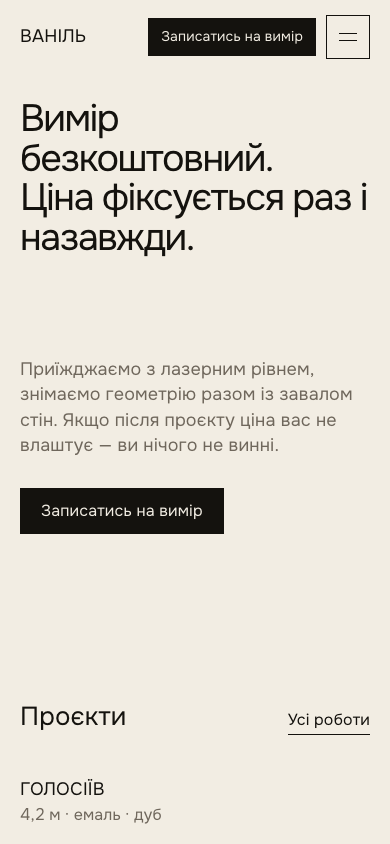
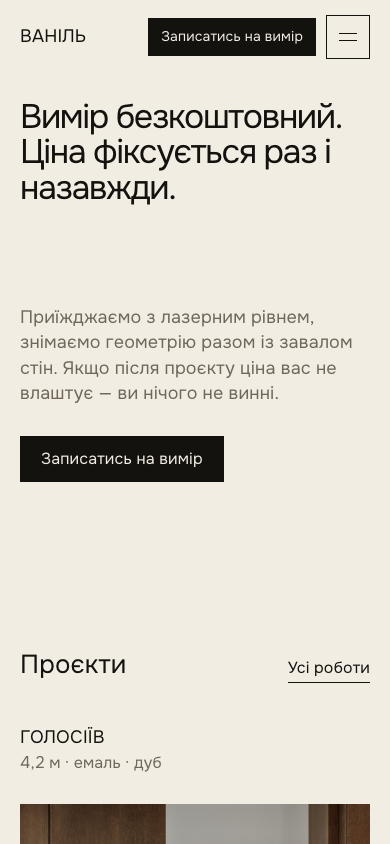
Заявна секція: менший заголовок, смуги серединою кадру й ведені скролом
- заголовок 84 -> 72px, той самий кегль, що в рейці (72px — розмір
  «Built for Institutional Workflows» на референсі)
- смуги перемальовані: заходять зліва внизу, сходинками йдуть управо
  і виходять угору праворуч, повз заголовок і повз абзац
- графіка стала елементом сітки (рядки 2-3), тож починається рівно там,
  де закінчується заголовок, і тримається там за будь-якого кегля
- анімацію веде скрол (--flow у app.js), а не нескінченний keyframes:
  раніше лінії бігли самі, навіть коли секції не видно

Побічно виправлено: .claim не мала явної колонки, через що 100% у дочірніх
рахувався від ширини вмісту (808px), а футер автопотоком ішов у другу
колонку — смуги через це не діставали країв екрана.

diff --git a/assets/style.css b/assets/style.css
@@ -176,7 +176,9 @@ a:focus-visible,button:focus-visible,input:focus-visible,select:focus-visible,.c
   /* середній рядок фіксований: 310px — задана відстань від заголовка до
      абзацу з діями. Тому висота секції рахується з відступів і рядків,
      а не з min-height, інакше зайве місце розтягувало б цю відстань. */
-  display:grid;grid-template-rows:auto 310px auto;
+  /* колонку задаємо явно: без неї 100% у дочірніх елементів рахувався від
+     ширини вмісту (≈808px), а не від секції, і смуги не діставали країв */
+  display:grid;grid-template-columns:minmax(0,1fr);grid-template-rows:auto 310px auto;
   /* 270px — задана відстань від картинки згори до заголовка;
      376px знизу дають рівно 470px від кнопки до заголовка «Проєкти»
      (решту добирають власний відступ .shead і його базова лінія) */
@@ -190,25 +192,29 @@ a:focus-visible,button:focus-visible,input:focus-visible,select:focus-visible,.c
 
 /* Два речення — два рядки, розриви проставлені в розмітці. Міру не
    обмежуємо, інакше рядок ламався б сам не там, де треба. */
-.claim__h{grid-row:1;max-width:none;
-          font-size:clamp(38px,5.8vw,84px);line-height:1.04;letter-spacing:-.04em}
+.claim__h{grid-row:1;grid-column:1;max-width:none;
+          font-size:clamp(34px,5vw,72px);line-height:1.04;letter-spacing:-.04em}
 
-/* Графіка не заходить під текст: заголовок займає верх ліворуч, абзац із
-   кнопкою — низ праворуч, тож лініям лишається права верхня чверть.
-   Як на рефі: смуги йдуть повз текст, а не крізь нього. */
-.claim__art{position:absolute;z-index:-1;left:calc(var(--g) * -1);bottom:0;
-            width:min(46%,660px);height:auto;transform:scaleX(-1);
-            fill:none;stroke:var(--k);stroke-width:1;
+/* Смуги лежать серединою секції на всю ширину: заходять зліва внизу й
+   виходять угору праворуч, повз заголовок і повз абзац, а не під ними. */
+/* Не абсолют із підібраним top, а елемент сітки: смуги займають рядки 2–3,
+   тобто починаються рівно там, де закінчується заголовок, і тримаються там
+   самі, хоч би як змінився кегль. Поля перекриваються, щоб лінії йшли
+   від краю до краю. */
+.claim__artwrap{grid-row:2 / 4;grid-column:1;position:relative;z-index:-1;
+                width:calc(100% + var(--g) * 2);margin-inline:calc(var(--g) * -1)}
+.claim__art{position:absolute;inset:0;width:100%;height:100%;
+            fill:none;stroke:var(--k);stroke-width:1.5;
             stroke-linecap:round;stroke-linejoin:round;
             vector-effect:non-scaling-stroke}
-.claim__base{opacity:.14}
-/* pathLength=1 нормує довжину, тож штрих задається часткою контуру
-   і однаково працює на лініях різної довжини */
-.claim__flow path{opacity:.55;stroke-dasharray:.16 .84;stroke-dashoffset:1;
-                  animation:claimFlow 12s linear infinite;animation-delay:var(--d,0s)}
-@keyframes claimFlow{to{stroke-dashoffset:0}}
+.claim__base{opacity:.22}
+/* pathLength=1 нормує довжину контуру, тож зсув штриха задається часткою,
+   а не пікселями, і однаково лягає на лінії різної довжини.
+   --flow веде скрол (app.js), --i розводить лінії в часі. */
+.claim__flow path{opacity:.8;stroke-dasharray:.34 .66;
+                  stroke-dashoffset:calc(1.34 - var(--flow,0) * 1.7 + var(--i,0) * .09)}
 
-.claim__foot{grid-row:3;justify-self:end;max-width:46ch;
+.claim__foot{grid-row:3;grid-column:1;justify-self:end;max-width:46ch;
              display:flex;flex-direction:column;gap:var(--s-sm);align-items:flex-start}
 .claim__body{font-size:18px;line-height:1.4;color:var(--grey)}
 .claim__acts{display:flex;flex-wrap:wrap;align-items:center;gap:16px 24px}
@@ -223,14 +229,14 @@ a:focus-visible,button:focus-visible,input:focus-visible,select:focus-visible,.c
   .claim__foot{justify-self:start;max-width:52ch}
   /* На вузькому екрані вільної чверті не лишається — лінії неминуче лягли б
      під абзац. Краще їх зняти, ніж возити текст по графіці. */
-  .claim__art{display:none}
+  .claim__artwrap{display:none}
 }
 @media (max-width:680px){
   .claim{row-gap:var(--s-lg)}
   .claim__acts{flex-direction:column;align-items:flex-start;gap:14px}
 }
 @media (prefers-reduced-motion:reduce){
-  .claim__flow path{animation:none;stroke-dashoffset:0;opacity:.2}
+  .claim__flow path{stroke-dasharray:none;stroke-dashoffset:0;opacity:.2}
 }
 
 .vision{padding:var(--s-xl) var(--g)}
@@ -316,7 +322,7 @@ a:focus-visible,button:focus-visible,input:focus-visible,select:focus-visible,.c
 .rail__head{display:grid;grid-template-columns:1fr auto;align-items:end;
             gap:var(--s-md) var(--s-2xl);padding:0 var(--g)}
 .rail__head h2{color:var(--w);max-width:14ch;
-               font-size:clamp(38px,5.8vw,84px);line-height:1.04;letter-spacing:-.04em}
+               font-size:clamp(34px,5vw,72px);line-height:1.04;letter-spacing:-.04em}
 .rail__intro{justify-self:end;max-width:44ch;
              display:flex;flex-direction:column;gap:var(--s-sm);align-items:flex-start}
 .rail__intro p{color:var(--grey-dk);font-size:16px;line-height:1.45;margin:0}

diff --git a/index.html b/index.html
@@ -50,24 +50,27 @@
 
   <h2 class="claim__h">Вимір безкоштовний.<br>Ціна фіксується раз і назавжди.</h2>
 
-  <!-- Лінії намальовані двічі: бліда підкладка тримає малюнок на місці,
-       а поверх неї тим самим контуром біжить світлий відрізок. -->
-  <svg class="claim__art" viewBox="0 0 900 560" fill="none" aria-hidden="true" focusable="false">
+  <!-- Смуги йдуть повз текст серединою кадру: заходять зліва внизу,
+       сходинками піднімаються і виходять угору праворуч. Намальовані двічі —
+       бліда підкладка тримає малюнок, поверх тим самим контуром біжить
+       світлий відрізок, і веде його скрол, а не таймер. -->
+  <div class="claim__artwrap" aria-hidden="true">
+  <svg class="claim__art" viewBox="0 0 1140 440" fill="none" preserveAspectRatio="none"
+       focusable="false">
     <g class="claim__base">
-      <path d="M900 40H360a80 80 0 0 0-80 80v120a80 80 0 0 1-80 80H0"/>
-      <path d="M900 130H430a80 80 0 0 0-80 80v150a80 80 0 0 1-80 80H60"/>
-      <path d="M900 220H500a80 80 0 0 0-80 80v180a80 80 0 0 1-80 80H140"/>
-      <path d="M900 310H570a80 80 0 0 0-80 80v170"/>
-      <path d="M900 400H640a80 80 0 0 0-80 80v80"/>
+      <path d="M-20 300H150c40 0 70-30 70-70V170c0-40 30-70 70-70h360c40 0 70-30 70-70V-30"/>
+      <path d="M-20 356H214c40 0 70-30 70-70V226c0-40 30-70 70-70h360c40 0 70-30 70-70V-30"/>
+      <path d="M-20 412H278c40 0 70-30 70-70V282c0-40 30-70 70-70h360c40 0 70-30 70-70V-30"/>
+      <path d="M-20 468H342c40 0 70-30 70-70V338c0-40 30-70 70-70h360c40 0 70-30 70-70V-30"/>
     </g>
     <g class="claim__flow">
-      <path pathLength="1" style="--d:0s"    d="M900 40H360a80 80 0 0 0-80 80v120a80 80 0 0 1-80 80H0"/>
-      <path pathLength="1" style="--d:-2.4s" d="M900 130H430a80 80 0 0 0-80 80v150a80 80 0 0 1-80 80H60"/>
-      <path pathLength="1" style="--d:-4.8s" d="M900 220H500a80 80 0 0 0-80 80v180a80 80 0 0 1-80 80H140"/>
-      <path pathLength="1" style="--d:-7.2s" d="M900 310H570a80 80 0 0 0-80 80v170"/>
-      <path pathLength="1" style="--d:-9.6s" d="M900 400H640a80 80 0 0 0-80 80v80"/>
+      <path pathLength="1" style="--i:0" d="M-20 300H150c40 0 70-30 70-70V170c0-40 30-70 70-70h360c40 0 70-30 70-70V-30"/>
+      <path pathLength="1" style="--i:1" d="M-20 356H214c40 0 70-30 70-70V226c0-40 30-70 70-70h360c40 0 70-30 70-70V-30"/>
+      <path pathLength="1" style="--i:2" d="M-20 412H278c40 0 70-30 70-70V282c0-40 30-70 70-70h360c40 0 70-30 70-70V-30"/>
+      <path pathLength="1" style="--i:3" d="M-20 468H342c40 0 70-30 70-70V338c0-40 30-70 70-70h360c40 0 70-30 70-70V-30"/>
     </g>
   </svg>
+  </div>
 
   <div class="claim__foot">
     <p class="claim__body">Приїжджаємо з лазерним рівнем, знімаємо геометрію разом із завалом

diff --git a/assets/app.js b/assets/app.js
@@ -161,6 +161,39 @@
     measure();
   })();
 
+  /* ---------- 1c. Смуги в заявній секції: малює їх скрол ----------
+     Раніше тут крутився нескінченний keyframes: лінії бігли самі по собі,
+     навіть коли секції не видно. Тепер зсув штриха — функція від того,
+     скільки секції пройшло крізь екран: стоїш — стоять і вони. */
+  (function claimFlow() {
+    var sec = $(".claim");
+    if (!sec || !sec.querySelector(".claim__flow")) return;
+    if (reduced) { sec.style.setProperty("--flow", 1); return; }
+
+    var queued = false;
+
+    function paint() {
+      var r = sec.getBoundingClientRect();
+      var h = window.innerHeight || document.documentElement.clientHeight;
+      // 0 — секція щойно торкнулась нижнього краю екрана,
+      // 1 — повністю пройшла вгору за верхній.
+      var p = (h - r.top) / (h + r.height);
+      p = p < 0 ? 0 : p > 1 ? 1 : p;
+      sec.style.setProperty("--flow", p.toFixed(4));
+    }
+
+    function queue() {
+      if (queued) return;
+      queued = true;
+      requestAnimationFrame(function () { queued = false; paint(); });
+    }
+
+    window.addEventListener("scroll", queue, { passive: true });
+    window.addEventListener("resize", queue);
+    window.addEventListener("load", paint);
+    paint();
+  })();
+
   /* ---------- 2. Відео: не автоплеїмо при prefers-reduced-motion ---------- */
   if (reduced) {
     $$("video").forEach(function (v) { v.removeAttribute("autoplay"); v.pause(); });
